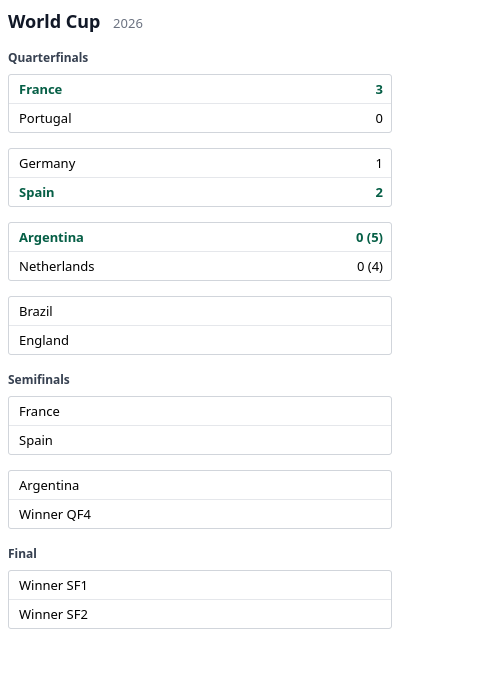
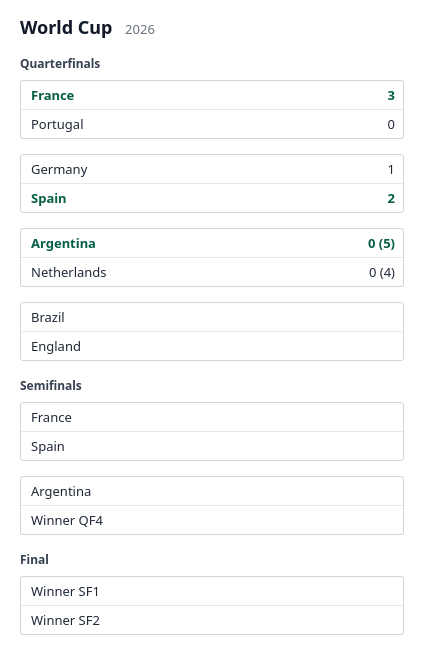
feat: automatic light/dark mode for the SVG and HTML table outputs
Both default style blocks gain a @user (prefers-color-scheme: dark) block
that re-colors the pd-* classes to a dark palette, so the diagram and the
table follow the reader's OS/browser setting with no flag and no API. In HTML
the cell text doesn't inherit the dark .pd-stage color into the <td>s, so the
dark block sets .pd-team/.pd-score explicitly. Forcing a fixed scheme (for
static rasterizers, which ignore the media query) is deferred to #8.

Regenerate the goldens for the added <style> block; add a "Light and dark
mode" manual section with balanced light and dark table previews.

diff --git a/tests/golden/facup-drawn.html b/tests/golden/facup-drawn.html
@@ -12,7 +12,17 @@
   .pd-crest { width: 16px; height: 16px; vertical-align: middle; margin-right: 6px; }
   .pd-score { font-size: 13px; padding: 5px 8px; text-align: right;
               white-space: nowrap; }
-  .pd-win td { font-weight: 700; color: #065f46; }</style>
+  .pd-win td { font-weight: 700; color: #065f46; }
+  @media (prefers-color-scheme: dark) {
+    .pd-stage { color: #e5e7eb; background: #0f172a; }
+    .pd-title { color: #f8fafc; }
+    .pd-season { color: #94a3b8; }
+    .pd-header { color: #cbd5e1; }
+    .pd-team, .pd-score { color: #e5e7eb; }
+    .pd-match { background: #1e293b; border-color: #334155; }
+    .pd-side + .pd-side td { border-top-color: #334155; }
+    .pd-win td { color: #34d399; }
+  }</style>
 <h2 class="pd-title">FA Cup <span class="pd-season">2025-26</span></h2>
 <div class="pd-round">
 <h3 class="pd-header">Quarterfinals</h3>

diff --git a/tests/golden/facup-pending-draw.html b/tests/golden/facup-pending-draw.html
@@ -12,7 +12,17 @@
   .pd-crest { width: 16px; height: 16px; vertical-align: middle; margin-right: 6px; }
   .pd-score { font-size: 13px; padding: 5px 8px; text-align: right;
               white-space: nowrap; }
-  .pd-win td { font-weight: 700; color: #065f46; }</style>
+  .pd-win td { font-weight: 700; color: #065f46; }
+  @media (prefers-color-scheme: dark) {
+    .pd-stage { color: #e5e7eb; background: #0f172a; }
+    .pd-title { color: #f8fafc; }
+    .pd-season { color: #94a3b8; }
+    .pd-header { color: #cbd5e1; }
+    .pd-team, .pd-score { color: #e5e7eb; }
+    .pd-match { background: #1e293b; border-color: #334155; }
+    .pd-side + .pd-side td { border-top-color: #334155; }
+    .pd-win td { color: #34d399; }
+  }</style>
 <h2 class="pd-title">FA Cup <span class="pd-season">2025-26</span></h2>
 <div class="pd-round">
 <h3 class="pd-header">Quarterfinals</h3>

diff --git a/tests/golden/knockout-8.html b/tests/golden/knockout-8.html
@@ -12,7 +12,17 @@
   .pd-crest { width: 16px; height: 16px; vertical-align: middle; margin-right: 6px; }
   .pd-score { font-size: 13px; padding: 5px 8px; text-align: right;
               white-space: nowrap; }
-  .pd-win td { font-weight: 700; color: #065f46; }</style>
+  .pd-win td { font-weight: 700; color: #065f46; }
+  @media (prefers-color-scheme: dark) {
+    .pd-stage { color: #e5e7eb; background: #0f172a; }
+    .pd-title { color: #f8fafc; }
+    .pd-season { color: #94a3b8; }
+    .pd-header { color: #cbd5e1; }
+    .pd-team, .pd-score { color: #e5e7eb; }
+    .pd-match { background: #1e293b; border-color: #334155; }
+    .pd-side + .pd-side td { border-top-color: #334155; }
+    .pd-win td { color: #34d399; }
+  }</style>
 <h2 class="pd-title">World Cup <span class="pd-season">2026</span></h2>
 <div class="pd-round">
 <h3 class="pd-header">Quarterfinals</h3>

diff --git a/tests/golden/libertadores-2026.html b/tests/golden/libertadores-2026.html
@@ -12,7 +12,17 @@
   .pd-crest { width: 16px; height: 16px; vertical-align: middle; margin-right: 6px; }
   .pd-score { font-size: 13px; padding: 5px 8px; text-align: right;
               white-space: nowrap; }
-  .pd-win td { font-weight: 700; color: #065f46; }</style>
+  .pd-win td { font-weight: 700; color: #065f46; }
+  @media (prefers-color-scheme: dark) {
+    .pd-stage { color: #e5e7eb; background: #0f172a; }
+    .pd-title { color: #f8fafc; }
+    .pd-season { color: #94a3b8; }
+    .pd-header { color: #cbd5e1; }
+    .pd-team, .pd-score { color: #e5e7eb; }
+    .pd-match { background: #1e293b; border-color: #334155; }
+    .pd-side + .pd-side td { border-top-color: #334155; }
+    .pd-win td { color: #34d399; }
+  }</style>
 <h2 class="pd-title">Copa Libertadores <span class="pd-season">2026</span></h2>
 <div class="pd-round">
 <h3 class="pd-header">Quarterfinals</h3>

diff --git a/src/matamata/render.py b/src/matamata/render.py
@@ -28,6 +28,18 @@ _STYLE = """
   .pd-score { font: 400 13px sans-serif; fill: #1f2937; text-anchor: end; }
   .pd-win .pd-team, .pd-win .pd-score { font-weight: 700; fill: #065f46; }
   .pd-link { fill: none; stroke: #cbd5e1; stroke-width: 1.5; }
+  @media (prefers-color-scheme: dark) {
+    .pd-bg { fill: #0f172a; }
+    .pd-title { fill: #f8fafc; }
+    .pd-season { fill: #94a3b8; }
+    .pd-header { fill: #cbd5e1; }
+    .pd-box { fill: #1e293b; stroke: #334155; }
+    .pd-divider { stroke: #334155; }
+    .pd-team { fill: #e5e7eb; }
+    .pd-score { fill: #e5e7eb; }
+    .pd-win .pd-team, .pd-win .pd-score { fill: #34d399; }
+    .pd-link { stroke: #475569; }
+  }
 """.rstrip()
 
 

diff --git a/tests/test_render.py b/tests/test_render.py
@@ -91,6 +91,18 @@ def test_html_is_well_formed(name):
     _assert_well_formed(render_html(load_stage(os.path.join(EXAMPLES, name))), "div")
 
 
+def test_dark_mode_rules_are_embedded():
+    # Dark mode is automatic via a prefers-color-scheme media query baked into the
+    # default <style>; both renderers carry it, re-coloring the pd-* classes.
+    stage = load_stage(os.path.join(EXAMPLES, "knockout-8.json"))
+    svg = render_svg(stage)
+    assert "@media (prefers-color-scheme: dark)" in svg
+    assert ".pd-bg { fill: #0f172a; }" in svg
+    html = render_html(stage)
+    assert "@media (prefers-color-scheme: dark)" in html
+    assert ".pd-stage { color: #e5e7eb; background: #0f172a; }" in html
+
+
 def test_host_example_matches_golden(libertadores_diagram):
     _assert_golden(libertadores_diagram().render(), HOST_EXAMPLE, ".svg")
 

diff --git a/src/matamata/render_html.py b/src/matamata/render_html.py
@@ -35,6 +35,16 @@ _STYLE = """
   .pd-score { font-size: 13px; padding: 5px 8px; text-align: right;
               white-space: nowrap; }
   .pd-win td { font-weight: 700; color: #065f46; }
+  @media (prefers-color-scheme: dark) {
+    .pd-stage { color: #e5e7eb; background: #0f172a; }
+    .pd-title { color: #f8fafc; }
+    .pd-season { color: #94a3b8; }
+    .pd-header { color: #cbd5e1; }
+    .pd-team, .pd-score { color: #e5e7eb; }
+    .pd-match { background: #1e293b; border-color: #334155; }
+    .pd-side + .pd-side td { border-top-color: #334155; }
+    .pd-win td { color: #34d399; }
+  }
 """.rstrip()
 
 

diff --git a/docs/index.md b/docs/index.md
@@ -98,6 +98,22 @@ is driven by `pd-*` CSS classes with embedded defaults, so the host page can the
 The document's `render` options are SVG geometry knobs (`box_width`,
 `max_label_chars`) and are ignored here — HTML handles long names natively.
 
+### Light and dark mode
+
+Both outputs adapt to the reader's color scheme automatically. The embedded default
+styles carry a `@media (prefers-color-scheme: dark)` block, so the same SVG diagram and
+HTML table switch to a dark palette wherever the renderer follows the OS/browser setting
+— no flag, no API, nothing to pass:
+
+![The HTML table in dark mode](knockout-8-table-dark.png)
+
+There is nothing to opt into: dark colors apply when the viewing context is dark and the
+light palette otherwise (the [HTML table](#the-html-table-layout) above is the same
+schedule in light mode). The switch happens in a browser rendering context; a static
+rasterizer such as `rsvg-convert` — which produces the other PNG previews in this manual
+— ignores the media query and always renders light, so force-rendering a fixed scheme
+for static output may come later, alongside full style overrides.
+
 ## The `KnockoutStage` class
 
 The operation helpers live on one class, `KnockoutStage`: subclass it to resolve